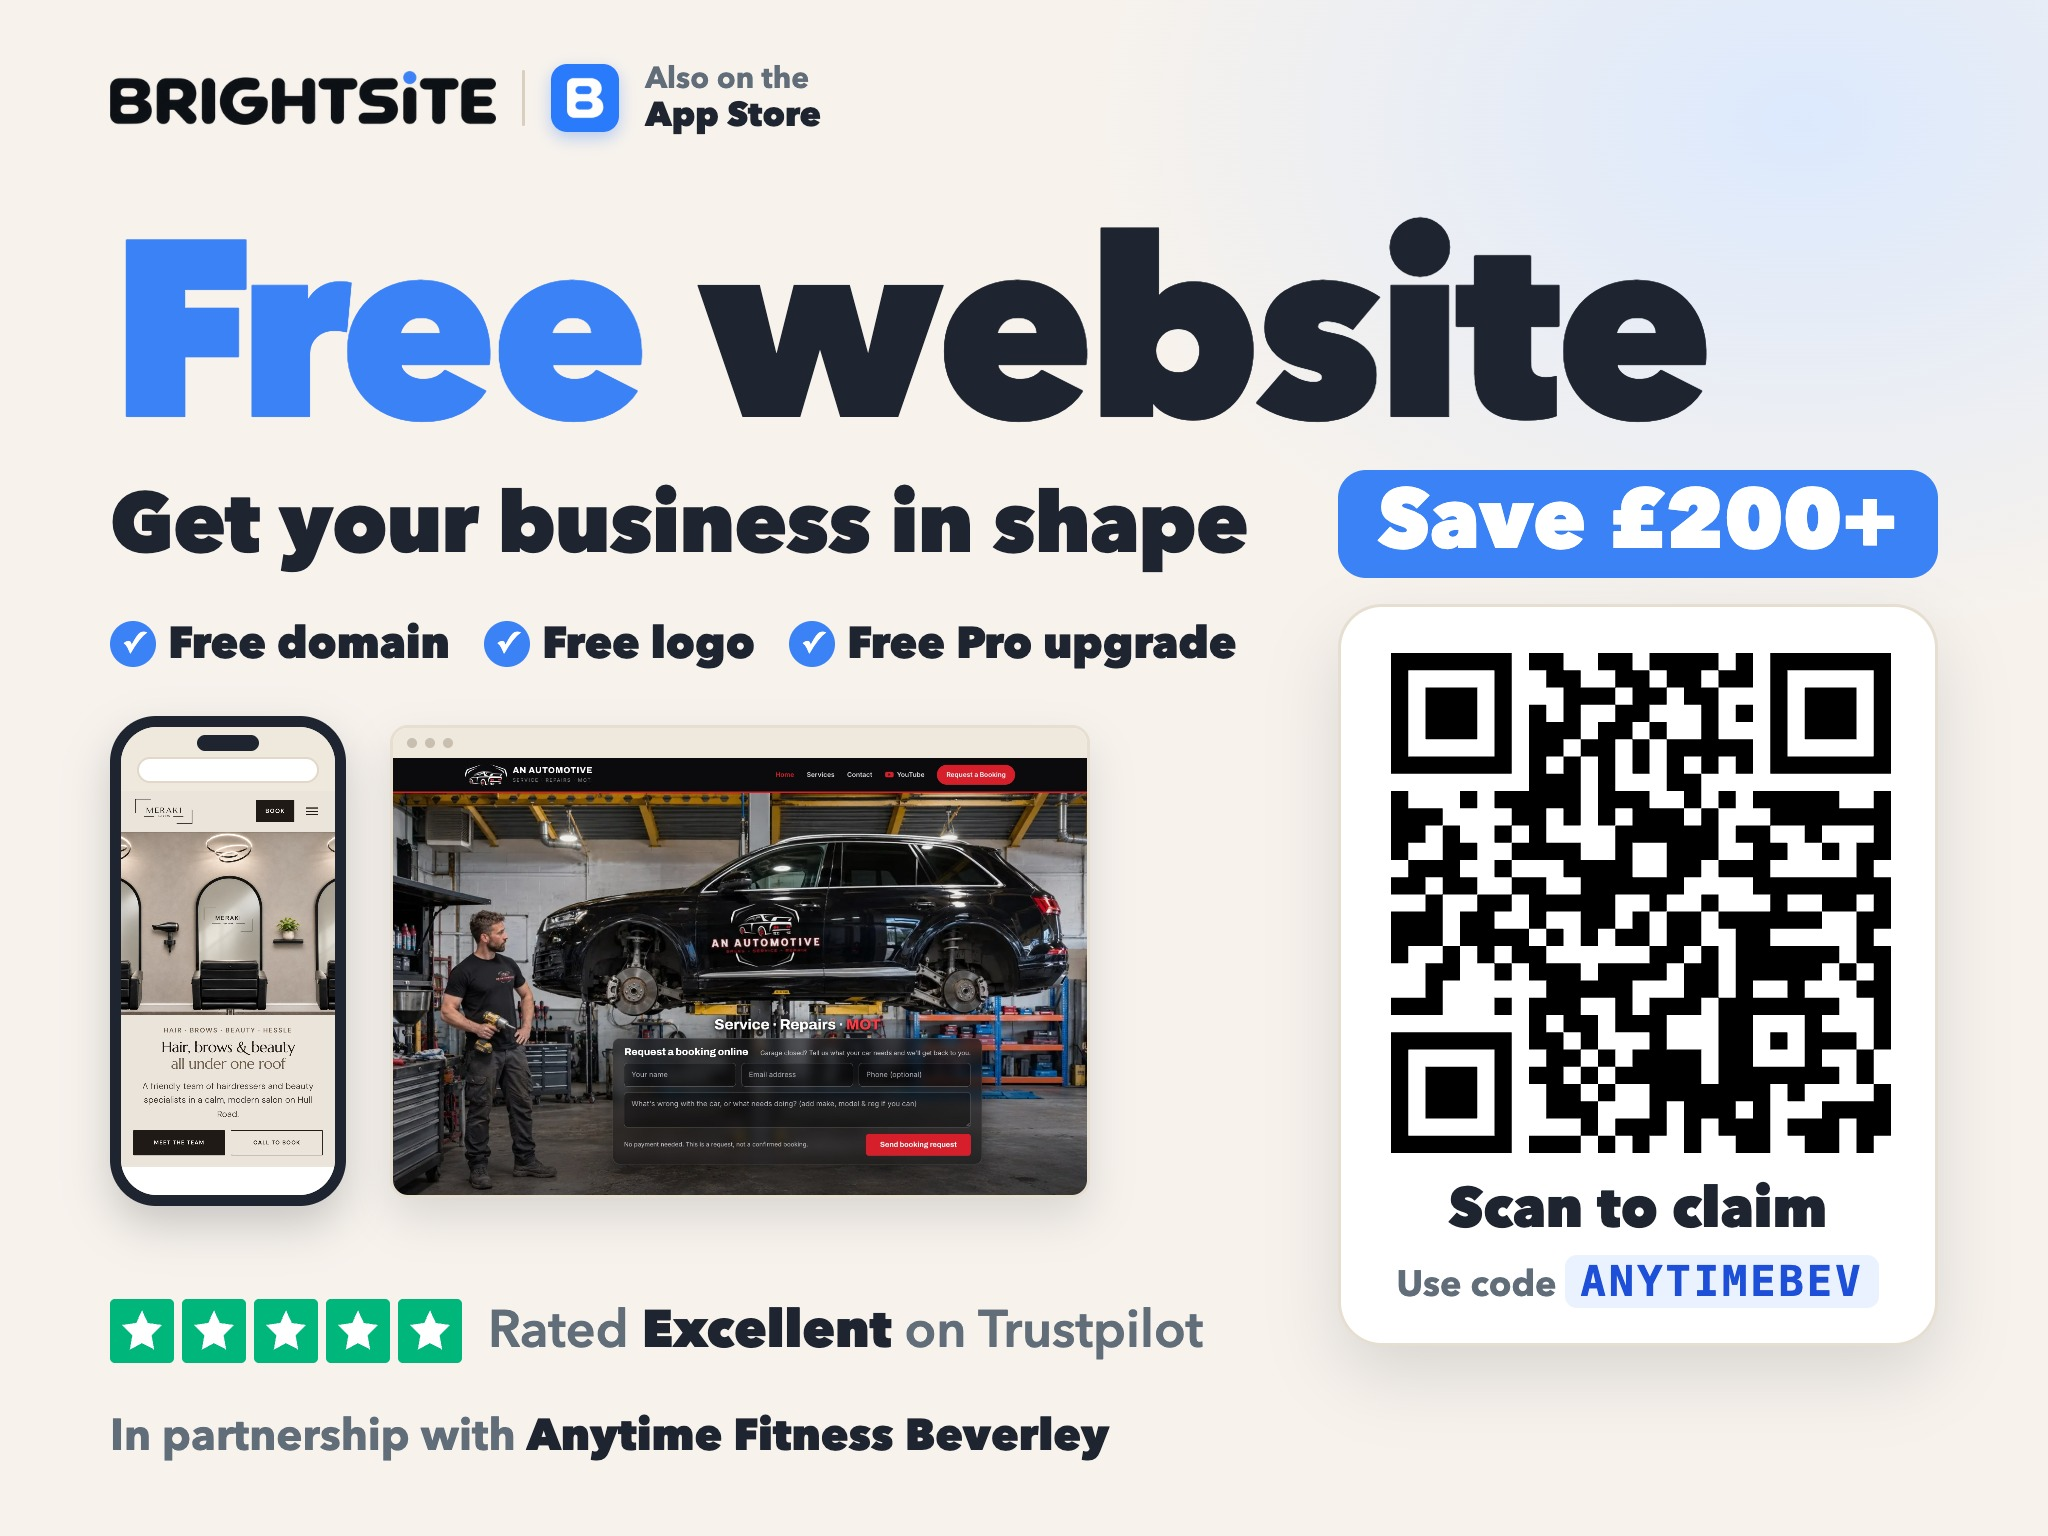
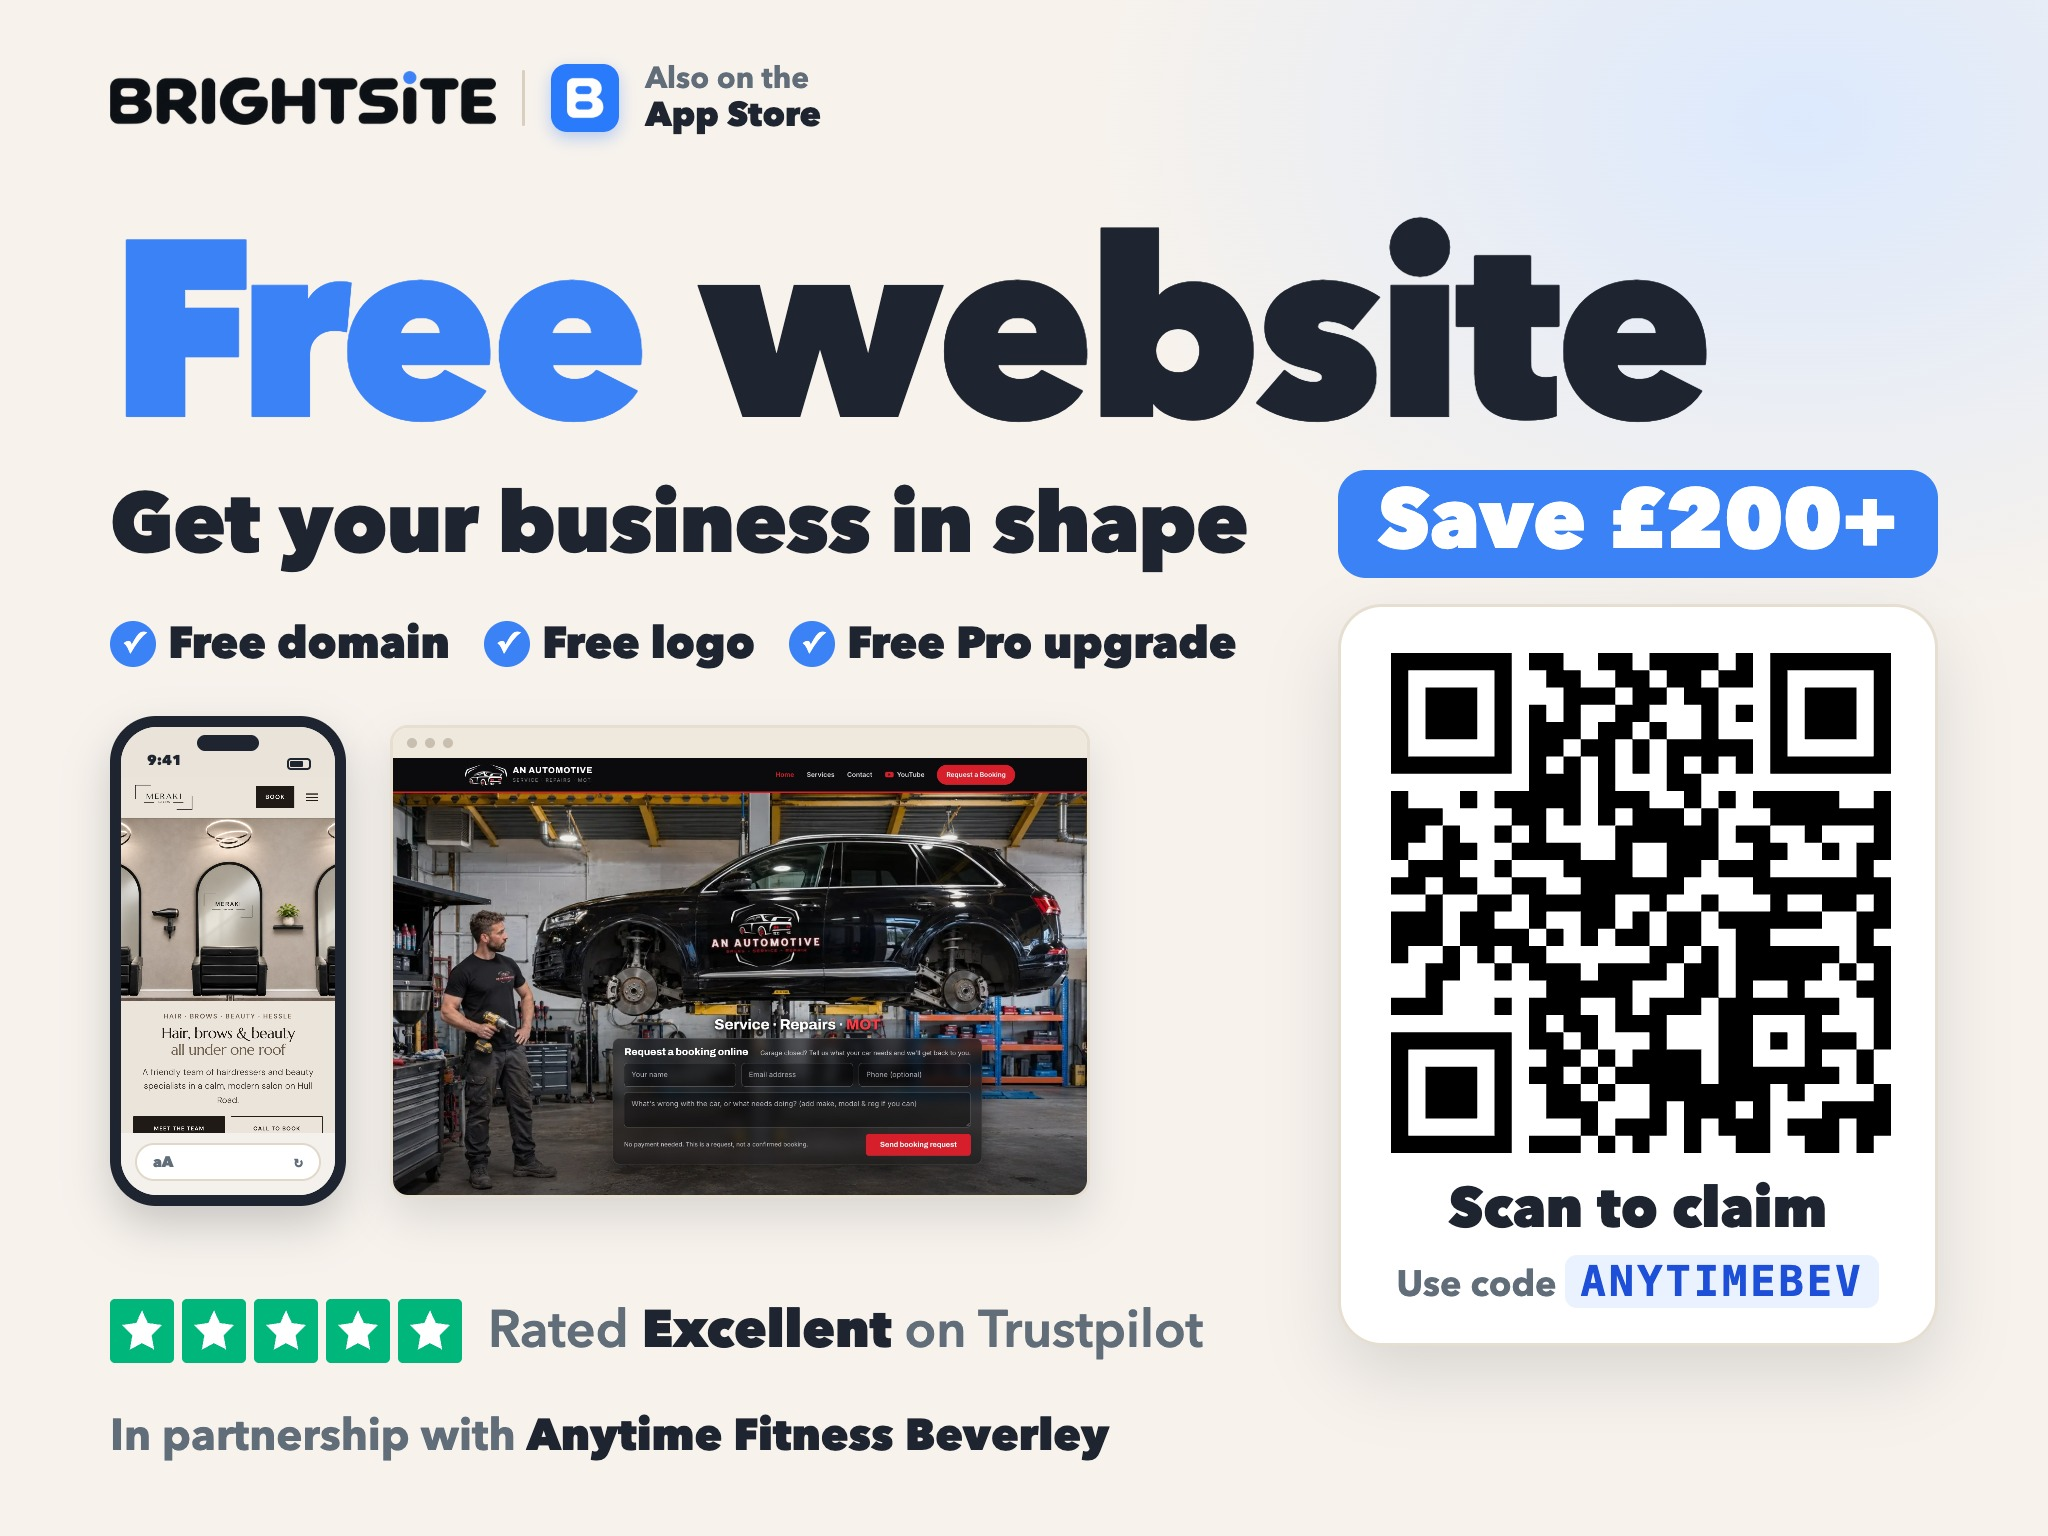
Beverley poster: phone mockup looks like a real iPhone (status bar, Safari bottom bar, no URL)

Changed region(s): [[0.0625, 0.4688, 0.1875, 0.7812]]

diff --git a/ads/beverley-poster.html b/ads/beverley-poster.html
@@ -39,8 +39,11 @@
   .foot b{color:#1F2530}
   .phone{width:236px;height:490px;background:#1F2530;border-radius:46px;padding:11px;box-shadow:0 20px 44px rgba(31,37,48,.22);position:relative}
   .phone .screen{width:100%;height:100%;border-radius:36px;overflow:hidden;background:#fff;display:flex;flex-direction:column}
-  .phone .mbar{flex:none;height:64px;background:#EFE8DD;padding:30px 16px 0}
-  .phone .mbar span{display:block;height:26px;border-radius:13px;background:#fff;border:2px solid #E1D8CA}
+  .phone .status{flex:none;height:50px;background:#EAE3D9;display:flex;justify-content:space-between;align-items:flex-end;padding:0 24px 7px 26px;font-size:14px;font-weight:800;color:#1F2530}
+  .phone .batt{width:24px;height:12px;border:2px solid #1F2530;border-radius:4px;position:relative}
+  .phone .batt::after{content:"";position:absolute;inset:1px;background:#1F2530;border-radius:1px;width:65%}
+  .phone .safari{flex:none;height:62px;background:#F4F1ED;padding:10px 14px 0}
+  .phone .pill{height:38px;border-radius:19px;background:#fff;border:2px solid #E1D8CA;display:flex;justify-content:space-between;align-items:center;padding:0 16px;color:#616D79;font-size:15px;font-weight:800}
   .phone img{display:block;width:100%;flex:1;min-height:0;object-fit:cover;object-position:top}
   .phone::after{content:"";position:absolute;top:19px;left:50%;transform:translateX(-50%);width:62px;height:16px;border-radius:10px;background:#1F2530}
 </style></head>
@@ -54,7 +57,7 @@
     <div><i>&#10003;</i>Free Pro upgrade</div>
   </div>
   <div class="sites">
-    <div class="phone"><div class="screen"><div class="mbar"><span></span></div><img src="meraki-mobile.jpg"></div></div>
+    <div class="phone"><div class="screen"><div class="status"><span>9:41</span><span class="batt"></span></div><img src="meraki-mobile.jpg"><div class="safari"><div class="pill"><span>aA</span><span>&#8635;</span></div></div></div></div>
     <div class="site"><div class="bar"><i></i><i></i><i></i></div><img src="an-automotive-hero.jpg"></div>
   </div>
   <div class="col">
